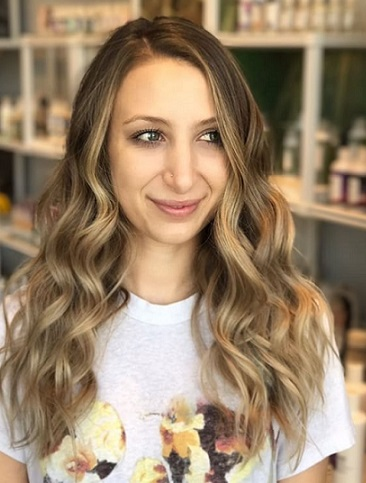
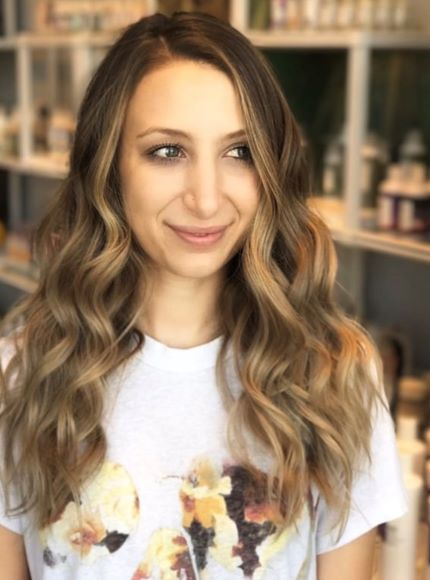
change image size and text format and style.

diff --git a/index.html b/index.html
@@ -7,16 +7,15 @@
   </head>
   <body>
     <h1>Samantha Nicole Butters</h1>
-
     <img class="image" src = "img/me.jpg">
-    <div class= "column">
-      <div class="panel panel-info">
-        <div class="panel-heading">
-          <h2 class="panel-title">About Me</h2>
-        </div>
-        <div class="panel-body">
-          <p>Hello. I'm Samantha or Sam, either is fine.</p>
-          <p>I'm a 26 year old Manufacturing Engineer from San Jose, California.</p>
+    <div class="personal">
+      <div class="row">
+        <div class="col-md-7">
+          <div class="well">
+            <h2>About Me</h2>
+            <p>Hello. I'm Samantha or Sam, either is fine.</p>
+            <p>I'm a 26 year old Manufacturing Engineer from San Jose, California.</p>
+          </div>  
         </div>
       </div>
     </div>  

diff --git a/css/styles.css b/css/styles.css
@@ -1,17 +1,23 @@
 h1 {
   font-family: 'Lucida Handwriting';
+  font-size: 40px;
+  font-weight: bold;
   text-align: center;
 }
 
 .image {
   float: left;
-  padding: 15px;
+  padding: 25px;
   padding-left: 50px;
+  width: 25%;
+  height: 25%;
 }
 
-.column {
-  padding: 25px;
-  width: 600px;
-  float: left;
+.personal {
+  padding-top: 25px;
   font-family: 'Lucida Sans';
+}
+
+p {
+  font-size: 17px;
 }
